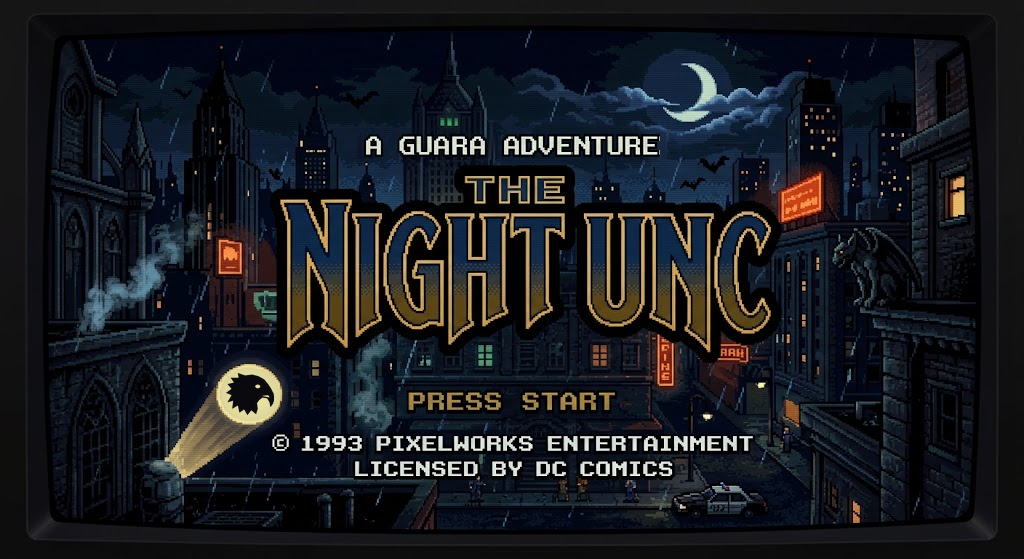
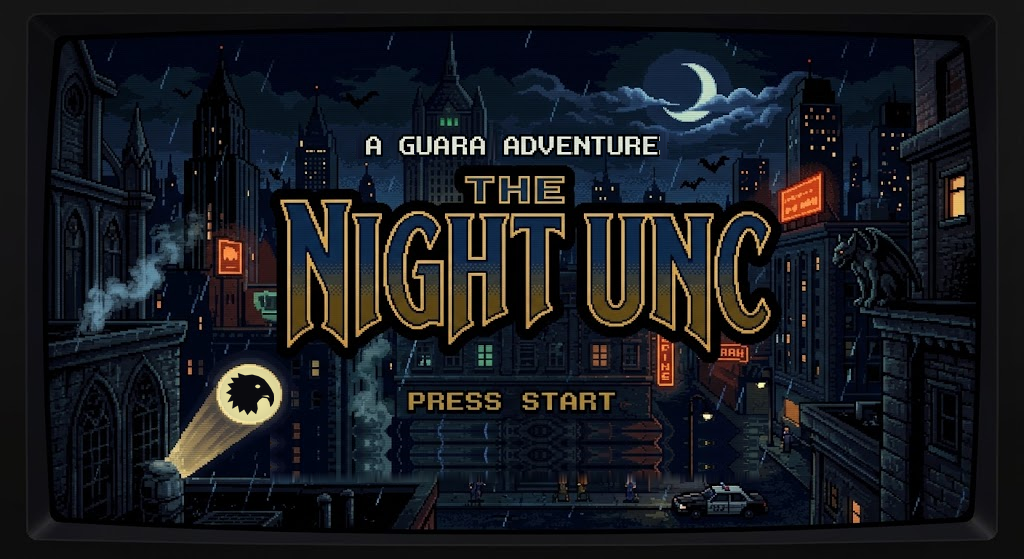
Title screen: remove the 1993 Pixelworks / DC Comics credit lines

Changed region(s): [[0.25, 0.7603, 0.75, 0.8819]]

diff --git a/tools/build_title_screen.py b/tools/build_title_screen.py
@@ -4,6 +4,7 @@
    (G, U, A, R are all on that line) so the font, fill and outline match.
 2. The bat in the spotlight signal -> a black Guara red hawk head (the Guaras' symbol), traced by hand
    from art/sheets/guara_hawk.png as a polygon stencil.
+3. The "(c) 1993 PIXELWORKS ... LICENSED BY DC COMICS" credit lines are removed.
 Source:  art/sheets/title_screen_original.png (unaltered, as supplied)
 Output:  assets/ui/title_screen.png
 Run:     python tools/build_title_screen.py   (requires Pillow)
@@ -33,6 +34,8 @@ HAWK_OUTLINE = [
 ]
 HAWK_MOUTH = [(52, 46), (60, 45), (62, 48), (58, 47)]  # notch separating beak from jaw
 HAWK_EYE = (47, 34, 2.2)                                 # x, y, radius (cut out)
+CREDIT_BOX = (270, 431, 758, 480)                        # "(c) 1993 PIXELWORKS..." lines, removed
+CREDIT_SAMPLE_TOP = 419                                  # clean facade rows 419..430 refill the block
 
 TOP, BOTTOM = 136, 154          # letter rows (fill)
 CLEAN_TOP, CLEAN_BOTTOM = 132, 158  # rows just outside the outline, used to repaint the background
@@ -143,8 +146,31 @@ def hawk_signal(img: Image.Image) -> None:
     img.paste(ink, (ox, oy), mask)
 
 
+def remove_credits(img: Image.Image, src: Image.Image) -> None:
+    """Erase the "(c) 1993 PIXELWORKS ... LICENSED BY DC COMICS" lines, inpainting from the surrounding art."""
+    x0, y0, x1, y1 = CREDIT_BOX
+    p = img.load()
+    # Clear the whole block by reflecting the clean facade band just above it back and forth (between the
+    # art's PRESS START and the credits; keeps the pixel texture crisp), then blend the last rows into the
+    # street below so the pedestrians and police car are not stretched.
+    band = y0 - CREDIT_SAMPLE_TOP
+    blend = 8
+    for y in range(y0, y1 + 1 - blend):
+        k = (y - y0) % (2 * band)
+        sy = y0 - 1 - k if k < band else CREDIT_SAMPLE_TOP + (k - band)
+        for x in range(x0, x1 + 1):
+            p[x, y] = src.getpixel((x, sy))
+    top = y1 - blend
+    for y in range(top + 1, y1 + 1):
+        t = (y - top) / (blend + 1)
+        for x in range(x0, x1 + 1):
+            a, b = p[x, top], src.getpixel((x, y1 + 1))
+            p[x, y] = tuple(round(a[i] * (1 - t) + b[i] * t) for i in range(3))
+
+
 def main() -> None:
     out = retitle()
+    remove_credits(out, Image.open(SRC).convert("RGB"))
     hawk_signal(out)
     OUT.parent.mkdir(parents=True, exist_ok=True)
     out.save(OUT)

diff --git a/.github/skills/guara-art/SKILL.md b/.github/skills/guara-art/SKILL.md
@@ -30,7 +30,7 @@ Yeral the Spoilerman palette (level, UI, projectiles, traps):
 5. `node tools/gen_assets.js` - green floor/wall tiles, backgrounds and legacy props in `assets/` (Yeral level floor/walls). `node tools/gen_assets.js bichema` writes the same set recoloured to red/crimson (green-dominant -> red, blue -> crimson, gold/neutral kept) into `assets/bichema/`.
 5b. `node tools/slice_evil_genius.js` - from `art/sheets/evil_genius_sheet.png` (near-black backdrop keyed by flood fill; the boss art is never recoloured): boss poses `assets/sprites/evil_genius/evil_genius_<idle|staff|run|jump|point|blast|shield|hurt>.png` (shared 662x439 canvas, feet at (331,435)), the girl-boss lawyer `evil_genius_fx_lawyer.png` (his weakness, shown on defeat), red hologram props `bichema/bichema_holo_*.png`, and the mob `truffle_android/truffle_android_<idle_0|idle_1|run_0|run_1|warn_0|shoot_0|hurt_0|dead_0..3>.png` (half-res 228x210 canvas, feet at (114,206); truffle-textured head, steel face, red glow).
 6. `python assets/extract_glizzy.py` - rebuilds `assets/glizzy_atlas.png` and `assets/glizzy_frames.tres` from the copied Glizzy source; requires Pillow. Explicit crops, polygon exclusions, and per-pose feet anchors preserve source pixels without neighboring poses.
-6b. `python tools/build_title_screen.py` - title screen: from the supplied `art/sheets/title_screen_original.png` (kept unaltered) writes `assets/ui/title_screen.png` with two user-requested edits: (1) subtitle "A GOTHAM ADVENTURE" -> "A GUARA ADVENTURE", re-laid with the art's own letter pixels (G, U, A, R), centred with the original spacing, old line repainted from the rows above/below; (2) the bat in the spotlight signal -> a black **Guara red hawk** head (the Guaras' symbol; reference icon `art/sheets/guara_hawk.png`). The hawk is a hand-traced polygon stencil (`HAWK_OUTLINE`, crest/hooked beak/neck feathers, cut-out eye) because colour-keying the small icon gave a blobby mask; the disc interior is repainted cream first so no bat edges remain. Requires Pillow.
+6b. `python tools/build_title_screen.py` - title screen: from the supplied `art/sheets/title_screen_original.png` (kept unaltered) writes `assets/ui/title_screen.png` with two user-requested edits: (1) subtitle "A GOTHAM ADVENTURE" -> "A GUARA ADVENTURE", re-laid with the art's own letter pixels (G, U, A, R), centred with the original spacing, old line repainted from the rows above/below; (2) the bat in the spotlight signal -> a black **Guara red hawk** head (the Guaras' symbol; reference icon `art/sheets/guara_hawk.png`). The hawk is a hand-traced polygon stencil (`HAWK_OUTLINE`, crest/hooked beak/neck feathers, cut-out eye) because colour-keying the small icon gave a blobby mask; the disc interior is repainted cream first so no bat edges remain; (3) the "(c) 1993 PIXELWORKS ENTERTAINMENT / LICENSED BY DC COMICS" credit lines are removed (`CREDIT_BOX`), refilled by reflecting the clean facade rows between the art's PRESS START and the credits, with the last rows blended into the street. Requires Pillow.
 7. Open Godot once so it generates `.import` files; commit them.
 
 When a sheet changes, adjust the boxes/regions in the slicer rather than editing PNGs by hand.
